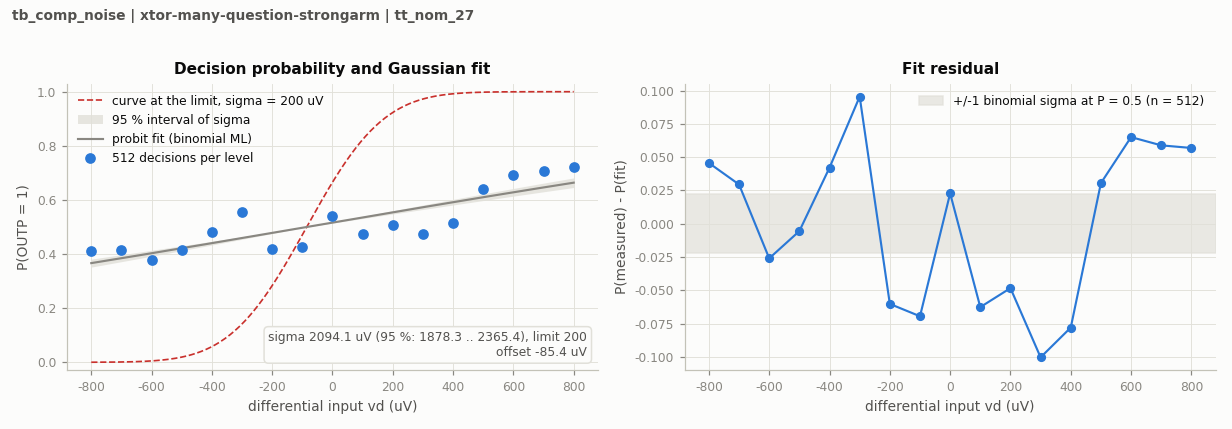
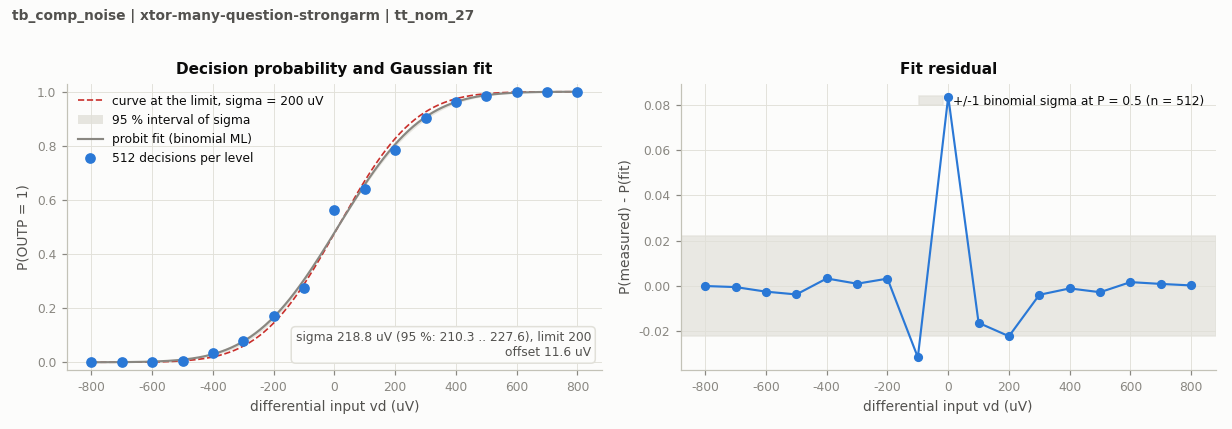
test(comp): preserve V19 formal TT noise failure

diff --git a/design/xtor/adc_comp/many-question-strongarm/FORMAL-RESET-V19.md b/design/xtor/adc_comp/many-question-strongarm/FORMAL-RESET-V19.md
@@ -16,4 +16,43 @@ The genuine [TT record](../../../../results/adc_comp/tb_comp_kickback/xtor-many-
 
[1 lines of base64/hex data omitted]
 
-One of the 92 current official records matches V19; 91 remain stale. The original complete TT noise protocol is the next gate. Remaining-corner SOA, required formal corners, mismatch, operating-range and mixed-top qualification remain open. No previous-source result transfers.
+At completion of this capacitance run, one of 92 records matched V19. The following section records the subsequent genuine noise run. Remaining-corner SOA, required formal corners, mismatch, operating-range and mixed-top qualification remain open. No previous-source result transfers.
+
+
+## TT transient noise: fail
+
+Run `20261031-082818-6cec-tb_comp_noise` uses actual clean source `cd870c295d3b361df37f897a702e57bb544837e5`. The original 17 levels, 512 decisions per level, 50 GHz noise bandwidth, seed 1, sampler, numerical settings, Gaussian-CDF fit and recorder are unchanged. All 8704 samples are finite, exactly 512 at every level, with none outside the expected sequence.
+
+| Metric | Measured | Limit | Result |
+|---|---:|---:|---|
+| Input-referred noise | 218.770058633 uV rms | 200 uV at TT | fail |
+| Noise 95% profile-likelihood interval | 210.31 to 227.64 uV | — | reported |
+| Absolute systematic offset | 0.011555686 mV | 2 mV | pass |
+
+The genuine [TT noise JSON](../../../../results/adc_comp/tb_comp_noise/xtor-many-question-strongarm/tt_nom_27.json) retains its actual source metadata. The minimum sampled absolute output difference is 0.899668058 V. The largest standardized residual from the fitted Gaussian CDF is 3.784980; intervals and residuals are conditional on that model. The original outputstart=tstop does not establish reset history, intermediate dynamic behavior or full-trace terminal stress. Private physical checks remain separate.
+
+| Input (uV) | OUTP / 512 |
+|---:|---:|
+| -800 | 0 |
+| -700 | 0 |
+| -600 | 0 |
+| -500 | 3 |
+| -400 | 17 |
+| -300 | 40 |
+| -200 | 87 |
+| -100 | 140 |
+| 0 | 288 |
+| 100 | 328 |
+| 200 | 401 |
+| 300 | 462 |
+| 400 | 492 |
+| 500 | 504 |
+| 600 | 511 |
+| 700 | 512 |
+| 800 | 512 |
+
+![Original TT noise curve](../../../../results/adc_comp/tb_comp_noise/xtor-many-question-strongarm/tt_nom_27.noise.png)
+
[1 lines of base64/hex data omitted]
+
+Two of the 92 current official cases now match V19 and 90 remain stale. Freshness does not imply passing. V19 qualification expansion stops at this failure; physical diagnosis and a subsequent circuit revision remain active. Remaining-corner SOA, all required formal cases, mismatch, operating-range and mixed-top qualification remain open. No source is selected or qualified.

diff --git a/design/xtor/adc_comp/many-question-strongarm/README.md b/design/xtor/adc_comp/many-question-strongarm/README.md
@@ -4,9 +4,9 @@ The canonical `adc_comp.scs` now contains the electrically identical source scre
 
 The source contains 23 MOS devices and 5 physical MOM capacitors. All dimensions and terminal parasitics come from successful callbacks or exact validated geometry reuse. Physical rail loads carry persistent current; [ENERGY-COMPARISON.md](ENERGY-COMPARISON.md) reports measured complete-circuit AVDD costs. No power limit or topology-efficiency conclusion is implied.
 
-The old canonical netlist and all 92 official records are preserved at commit `8c0d2666ccb0e135e5799e3c2390bbd4db3dfe12` and in a SHA-verified archive. At preservation, 2 records matched the immediate old canonical source and 90 already referred to older sources. At promotion all 92 were stale for the new source. One genuine new-source TT capacitance/kickback record now matches V19; 91 remain stale. They will be replaced only by actual new-source runs through the existing official runner; no private measurements or old metadata are relabeled. [Promotion proof](PROMOTION-RESET-V19.md) records source equivalence and preserved hashes. [Historical baseline](BASELINE-BEFORE-RESET-V19.md) retains the previous narrative and experiment links.
+The old canonical netlist and all 92 official records are preserved at commit `8c0d2666ccb0e135e5799e3c2390bbd4db3dfe12` and in a SHA-verified archive. At preservation, 2 records matched the immediate old canonical source and 90 already referred to older sources. At promotion all 92 were stale for the new source. Two genuine new-source TT cases now match V19 (capacitance/kickback and noise); 90 remain stale. They will be replaced only by actual new-source runs through the existing official runner; no private measurements or old metadata are relabeled. [Promotion proof](PROMOTION-RESET-V19.md) records source equivalence and preserved hashes. [Historical baseline](BASELINE-BEFORE-RESET-V19.md) retains the previous narrative and experiment links.
 
-[Original TT capacitance/kickback validation](FORMAL-RESET-V19.md) passes: input 19.330641 fF, CLKC 15.807766 fF and kickback 0.930826 uV. The next gate is the original complete TT noise test. Remaining-corner SOA, all required formal corners, Monte Carlo and mixed-top qualification remain to establish. No old capacitance, noise, mismatch or qualification result is inherited.
+[Original TT capacitance/kickback validation](FORMAL-RESET-V19.md) passes: input 19.330641 fF, CLKC 15.807766 fF and kickback 0.930826 uV. The original complete TT noise test gives 218.770059 uV rms (95% interval 210.31–227.64), a fail against 200 uV. V19 qualification expansion stops at this failure; physical diagnosis and a subsequent circuit revision remain active. Remaining-corner SOA, all required formal corners, Monte Carlo and mixed-top qualification remain to establish. No old capacitance, noise, mismatch or qualification result is inherited.
 
 ![Current complete transistor schematic](schematic.png)
 
